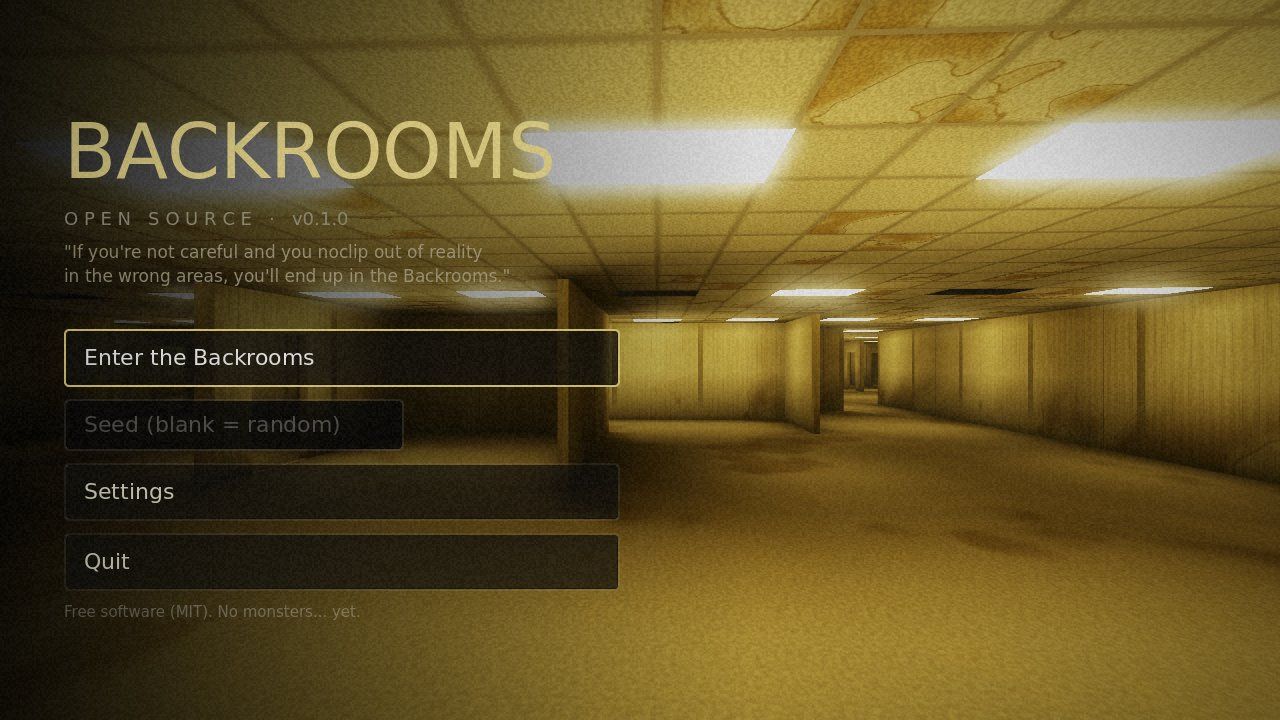
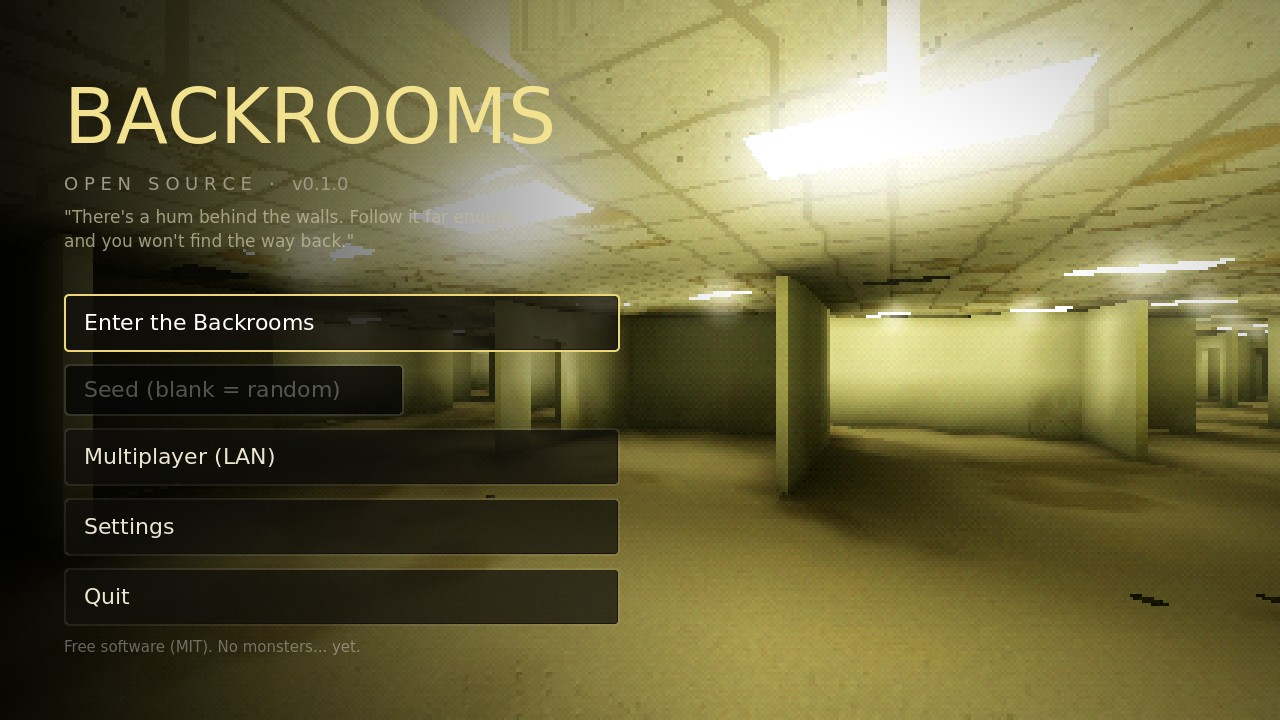
Remove borrowed names and text: original level names, menu quote, intro
Nothing from the Backrooms Wiki or the original 2019 post any more:
- The levels have their own names, without the wiki's numbers: the Yellow
  Halls, the Tiled Baths, the Grey Floors, the Unlit Halls, the Pipeworks,
  and the Meadow (was 'Level 0 - The Lobby', 'Level 37 - The Poolrooms',
  'Level 1 - Habitable Zone', 'Level 0.1 ...', 'Level 2 - Pipe Dreams',
  'Level 10 - The Field').
- The main menu quoted the 2019 post word for word; it has an original line
  now. The intro, loading text ('noclipping') and the fall ('The Void') are
  rewritten too.
- README, comments and the roadmap (which listed wiki levels and items)
  rewritten; contributions asked to be original. README screenshots that
  showed the old text re-shot (_test/readme_shots), the rest renamed.

Claude-Session: https://claude.ai/code/session_019Nc5boBFYvTp9C9g8Dt2so

diff --git a/tools/trailer/edit.py b/tools/trailer/edit.py
@@ -25,14 +25,14 @@ SANS_B = "/usr/share/fonts/truetype/dejavu/DejaVuSans-Bold.ttf"
 # The cut: ("shot", name, fade_in, fade_out) or ("card", lines, secs) or
 # ("black", secs). Fades are in seconds (to/from black).
 EDIT = [
-    ("card", ["You noclipped out of reality."], 3.0),
+    ("card", ["You stepped through a wall that wasn't there."], 3.0),
     ("shot", "lobby", 0.8, 0.0),
     ("shot", "flicker", 0.0, 0.3),
     ("card", ["The hum never stops."], 2.2),
     ("shot", "gallery", 0.3, 0.0),
     ("shot", "pool", 0.0, 0.0),
     ("shot", "pipes", 0.0, 0.0),
-    ("shot", "habitable", 0.0, 0.0),
+    ("shot", "grey_floors", 0.0, 0.0),
     ("shot", "unlit", 0.0, 0.4),
     ("card", ["Someone left arrows on the walls."], 2.4),
     ("shot", "arrow", 0.3, 0.0),
@@ -73,7 +73,7 @@ def card_frames(lines, secs, out_dir, title=False):
         f1 = font(SANS_B, 92)
         t = "BACKROOMS-OSS"
         tw = d.textlength(t, font=f1)
-        # A sodium-yellow glow behind the title, like the Lobby's light.
+        # A sodium-yellow glow behind the title, like the Yellow Halls' light.
         glow = Image.new("RGB", (W, H), (0, 0, 0))
         gd = ImageDraw.Draw(glow)
         gd.text(((W - tw) / 2, H / 2 - 80), t, font=f1, fill=(200, 180, 90))

diff --git a/README.md b/README.md
@@ -2,18 +2,18 @@
 
 An open source, infinite **Backrooms** exploration game for **Android** (and Linux/Windows), built with [Godot 4.7](https://godotengine.org).
 
-You noclipped out of reality. The hum of fluorescent lights, old moist carpet, and rooms that never end. Walk from the mono-yellow **Lobby** into the echoing **Poolrooms**, the concrete **Habitable Zone**, the cramped **Pipe Dreams** tunnels and the pitch-black **Unlit Halls**, all part of one seamless, endless world with no loading screens.
+You stepped through a wall that wasn't there. The hum of fluorescent lights, old damp carpet, and rooms that never end. Walk from the **Yellow Halls** into the echoing **Tiled Baths**, the concrete **Grey Floors**, the cramped **Pipeworks** tunnels and the pitch-black **Unlit Halls**, all part of one seamless, endless world with no loading screens.
 
 ![Main menu](docs/screenshots/menu.jpg)
 
-| Level 0 - The Lobby | Level 37 - The Poolrooms |
+| The Yellow Halls | The Tiled Baths |
 |---|---|
-| ![Lobby](docs/screenshots/lobby.jpg) | ![Poolrooms](docs/screenshots/poolrooms.jpg) |
-| **Poolrooms arches (with touch controls)** | **Level 2 - Pipe Dreams** |
-| ![Poolrooms arches](docs/screenshots/poolrooms_arches.jpg) | ![Pipe Dreams](docs/screenshots/pipe_dreams.jpg) |
-| **Open pillared halls** | **Level 1 - Habitable Zone** |
-| ![Lobby halls](docs/screenshots/lobby_touch.jpg) | ![Habitable Zone](docs/screenshots/habitable_zone.jpg) |
-| **Poolrooms sun gallery** | **Sun patches and god rays** |
+| ![Yellow Halls](docs/screenshots/yellow_halls.jpg) | ![Tiled Baths](docs/screenshots/tiled_baths.jpg) |
+| **Tiled Baths arches (with touch controls)** | **The Pipeworks** |
+| ![Tiled Baths arches](docs/screenshots/tiled_baths_arches.jpg) | ![Pipeworks](docs/screenshots/pipeworks.jpg) |
+| **Open pillared halls** | **The Grey Floors** |
+| ![Yellow Halls pillars](docs/screenshots/yellow_halls_touch.jpg) | ![Grey Floors](docs/screenshots/grey_floors.jpg) |
+| **Tiled Baths sun gallery** | **Sun patches and god rays** |
 | ![Sun gallery](docs/screenshots/sun_gallery.jpg) | ![Sun gallery rays](docs/screenshots/sun_gallery_rays.jpg) |
 
 *(Screenshots are from a software renderer; desktop builds add SSR, SSAO, SSIL and volumetric fog.)*
@@ -23,16 +23,16 @@ You noclipped out of reality. The hum of fluorescent lights, old moist carpet, a
 - **Infinite, seamless world.** Minecraft-style chunk streaming: chunks are generated nearest-first on background threads and uploaded under a strict per-frame time budget, so you can't see the world being built. Generation is deterministic from a seed, so any seed can be shared.
 - **Graphics presets** (Low / Medium / High / Max), plus soft light halos and haze that imitate volumetric fog on the Mobile renderer.
 - **Desktop builds use the Forward+ renderer**, which adds SSR, SSAO, SSIL bounce light, volumetric fog and SMAA. Android uses Godot's Mobile renderer, which the Godot docs recommend for phones (Forward+ there is "supported, but poorly optimized"). See [`engine/README.md`](engine/README.md) for notes on a possible future Android Forward+ build.
-- **Interactive water**: a GPU ripple simulation around you (wakes as you wade, rings and droplets when you jump in, drips from the ceiling), plus **real-time planar water reflections**, round tiled columns, arched colonnades, chrome pool ladders, skylights and a dark-green waterline band in the Poolrooms.
-- **Sun galleries**: long flooded halls in the Poolrooms lined with tall frosted windows. Sunlight is traced through the windows into the lightmap (crisp window-shaped patches on the pool floor, with caustics), plus soft god rays and a coved ceiling.
-- **Level 10 - The Field.** Somewhere on the Lobby's walls there are rare sky-blue doors with daylight leaking under them. Walk through one and you're standing on an endless sunlit lawn under towering cumulus clouds, and the door behind you is gone. The only way back is another lone door standing somewhere out in the grass. Its clouds are raymarched once on the GPU into a panorama, so the sky costs one texture lookup per pixel.
+- **Interactive water**: a GPU ripple simulation around you (wakes as you wade, rings and droplets when you jump in, drips from the ceiling), plus **real-time planar water reflections**, round tiled columns, arched colonnades, chrome pool ladders, skylights and a dark-green waterline band in the Tiled Baths.
+- **Sun galleries**: long flooded halls in the Tiled Baths lined with tall frosted windows. Sunlight is traced through the windows into the lightmap (crisp window-shaped patches on the pool floor, with caustics), plus soft god rays and a coved ceiling.
+- **The Meadow.** Somewhere on the walls of the Yellow Halls there are rare sky-blue doors with daylight leaking under them. Walk through one and you're standing on an endless sunlit lawn under towering cumulus clouds, and the door behind you is gone. The only way back is another lone door standing somewhere out in the grass. Its clouds are raymarched once on the GPU into a panorama, so the sky costs one texture lookup per pixel.
 - **The Dead Mall.** Some of those doors are different: bronze-framed frosted glass, warm light behind it and muffled mall music playing on the other side. It opens onto a shopping mall that closed years ago, about 240 m end to end: shuttered stores (some still lit inside), an arcade with its screens still on, a leaking roof, dead palms, a dry three-tier fountain under a pyramid skylight, a cafe row, a food court, an escalator to a floor that isn't there, a department store at the far end with mannequins posed on its stages, and "Fountain Court" still drifting from the ceiling speakers. Every prop and section is built in Blender from code (`tools/blender/mall_props.py`, `mall_kit.py`) with the lighting baked by Cycles into a lightmap per section, so it looks rich but costs a phone almost nothing to draw.
 - **LAN multiplayer (1-4 players).** Host a new or saved game and friends on the same Wi-Fi join at any time: hosts are found automatically, or join by IP. Everyone is a hazmat-suited player (a skinned, procedurally built model with fabric creases, gloves, boots, a chest torch and a suit number you choose); movement, crouching, jumping and flashlights are synced and smoothed, footsteps are positional. Joining players appear right next to the host, and a hand-held radar (R / RADAR button) shows where everyone is, with their suit numbers. The world is generated identically from the seed on every device, so nothing but the seed and player states goes over the network. The entities are personal: each player sees their own.
-- **Trails to the doors.** Earlier wanderers marked the way along the real route through the maze, up to about twenty-five rooms out: sky-blue painted arrows with a little sun lead to the Field, red marker arrows with a music note lead to the mall, at many of the junctions on the way. Closer in, dry leaves and grass blown in from the Field, or receipts, ticket stubs and a shopping bag from the mall, pile up thicker the nearer you get, and you can hear wind or muffled muzak through the door from about thirty metres.
-- **Level 0 details.** Scattered electrical outlets, light switches and vent grilles low on the walls, empty mounts where something once hung, indents in the carpet where furniture stood. Now and then a dark, sodden patch of carpet: the floor under it is rotten through, and if you step on it you fall through The Void and land somewhere far off in the Lobby.
-- **Interconnected levels.** Large meandering regions turn the Lobby into the Poolrooms, the Habitable Zone or the Unlit Halls. Borders always have doorways, so everything connects.
+- **Trails to the doors.** Earlier wanderers marked the way along the real route through the maze, up to about twenty-five rooms out: sky-blue painted arrows with a little sun lead to the Meadow, red marker arrows with a music note lead to the mall, at many of the junctions on the way. Closer in, dry leaves and grass blown in from the Meadow, or receipts, ticket stubs and a shopping bag from the mall, pile up thicker the nearer you get, and you can hear wind or muffled muzak through the door from about thirty metres.
+- **Yellow Halls details.** Scattered electrical outlets, light switches and vent grilles low on the walls, empty mounts where something once hung, indents in the carpet where furniture stood. Now and then a dark, sodden patch of carpet: the floor under it is rotten through, and if you step on it you fall through the dark and land somewhere far off in the Yellow Halls.
+- **Interconnected levels.** Large meandering regions turn the Yellow Halls into the Tiled Baths, the Grey Floors, the Pipeworks or the Unlit Halls. Borders always have doorways, so everything connects.
 - **Realistic lighting at mobile cost.** Each fixture's light is baked into per-pixel lightmaps as the chunk generates, on worker threads: direct light with wall occlusion through doorways, colored bounce light, and contact shadows. The nearest visible fixtures also get real-time lights that add moving specular highlights on tiles, puddles and water. On top of that come bloom, fog, filmic tonemapping, mirror-like water reflections of the ceiling lights, underwater caustics, glossy puddles and a hand-held flashlight with optional real-time shadows. Faulty tubes flicker, and their buzzing is synced to the flicker.
-- **No third-party assets.** Every texture (wallpaper, carpet, ceiling tiles, pool tiles, concrete, grass) is procedural in shaders, and every sound effect (fluorescent hum, room tone, water, wind, footsteps per surface, distant noises) is synthesized at startup. The one music track, *Empty Hours*, is rendered by `tools/music/compose.py` (also fully synthesized); the rendered OGG is included so building needs no Python.
+- **No third-party assets.** Every texture (wallpaper, carpet, ceiling tiles, pool tiles, concrete, grass) is procedural in shaders, and every sound effect (fluorescent hum, room tone, water, wind, footsteps per surface, distant noises) is synthesized at startup. The music (*Empty Hours* and the mall's *Fountain Court*) is composed and rendered by `tools/music/compose.py` and `fountain_court.py` (also fully synthesized); the rendered OGGs are included so building needs no Python. All names, levels, creatures and text are this project's own.
 - **Controls:**
   - Touch: a floating joystick, drag-anywhere look, and RUN / CROUCH / JUMP / LIGHT / pause buttons. **Every button can be moved and resized** in the layout editor, with adjustable opacity and sensitivity.
   - **Hardware keyboard and mouse** (including on Android): mouse capture, WASD, and fully **rebindable keys and mouse buttons**.
@@ -42,7 +42,7 @@ You noclipped out of reality. The hum of fluorescent lights, old moist carpet, a
 - **Settings:** render scale with FSR, MSAA, view distance, FPS cap, FOV, brightness, bloom, film grain/vignette, flashlight shadows, head bob, volumes and sensitivities.
 - **Autosave & continue.**
 
-Almost nothing chases you, and the Lobby itself is devoid of entities, as it should be. Further in, something lives behind the wallpaper of the Unlit Halls: **The Lining**. You only ever see its shape pressing out through the paper, and it only moves when you aren't looking. It's drawn by the wallpaper shader itself (a baked height map bends the wall's normals, shading and pattern), so it costs almost nothing. And in the Unlit Halls, someone too tall stands under the last working lights at the far end of a hallway. It's only ever there when you turn around, and it's gone when your flashlight reaches it. Both can be turned off in Settings.
+Almost nothing chases you, and nothing lives in the Yellow Halls themselves. Further in, something lives behind the wallpaper of the Unlit Halls: **The Lining**. You only ever see its shape pressing out through the paper, and it only moves when you aren't looking. It's drawn by the wallpaper shader itself (a baked height map bends the wall's normals, shading and pattern), so it costs almost nothing. And in the Unlit Halls, someone too tall stands under the last working lights at the far end of a hallway. It's only ever there when you turn around, and it's gone when your flashlight reaches it. Both can be turned off in Settings.
 
 The exception is the Dead Mall. Mannequins stand in its shop windows, and one of them is **the Window Dresser**: a cracked, emaciated fibreglass figure too tall to be a person, with an elbow too many in each arm. While it stalks you it only moves when you aren't looking, in stop-motion jumps. It sees, hears your footsteps (running carries, crouching doesn't), remembers where it last had you and grows bolder the longer you stay, the closer you get and the more you shine a torch at it. When it decides, its face shatters open into a ring of teeth (and a stab of strings), and for sixty seconds it hunts you: a loping, bent-double sprint nearly as fast as yours, the long arms reaching ahead, a rasping breath and your own heartbeat getting faster as it closes in. It aims where you're going, slips round out of sight to meet you head on, prowls the shops when you hide and waits at the door it heard you go through. A torch in its face slows it down. If it catches you, it screams. It was sculpted and rigged in Blender (`tools/blender/window_dresser.py`), baked down to a 7.5k-triangle game model with its poses and run cycles (`window_dresser_game.py`).
 
@@ -92,7 +92,7 @@ Because every query is a pure function of `(seed, x, z)`, neighbouring chunks al
 
 ## Roadmap ideas
 
-More levels (Level 4 office, Level 6 "Lights Out"), exits between levels via stairs and elevators, almond water and items, a sanity mechanic, and entities. Contributions are welcome!
+More places of our own (an abandoned office floor, a stretch where every light is dead), ways between levels via stairs and elevators, items, and a sanity mechanic. Contributions are welcome, as long as they are original (no names, levels, creatures or text taken from wikis, stories, films or other games).
 
 ## License
 
